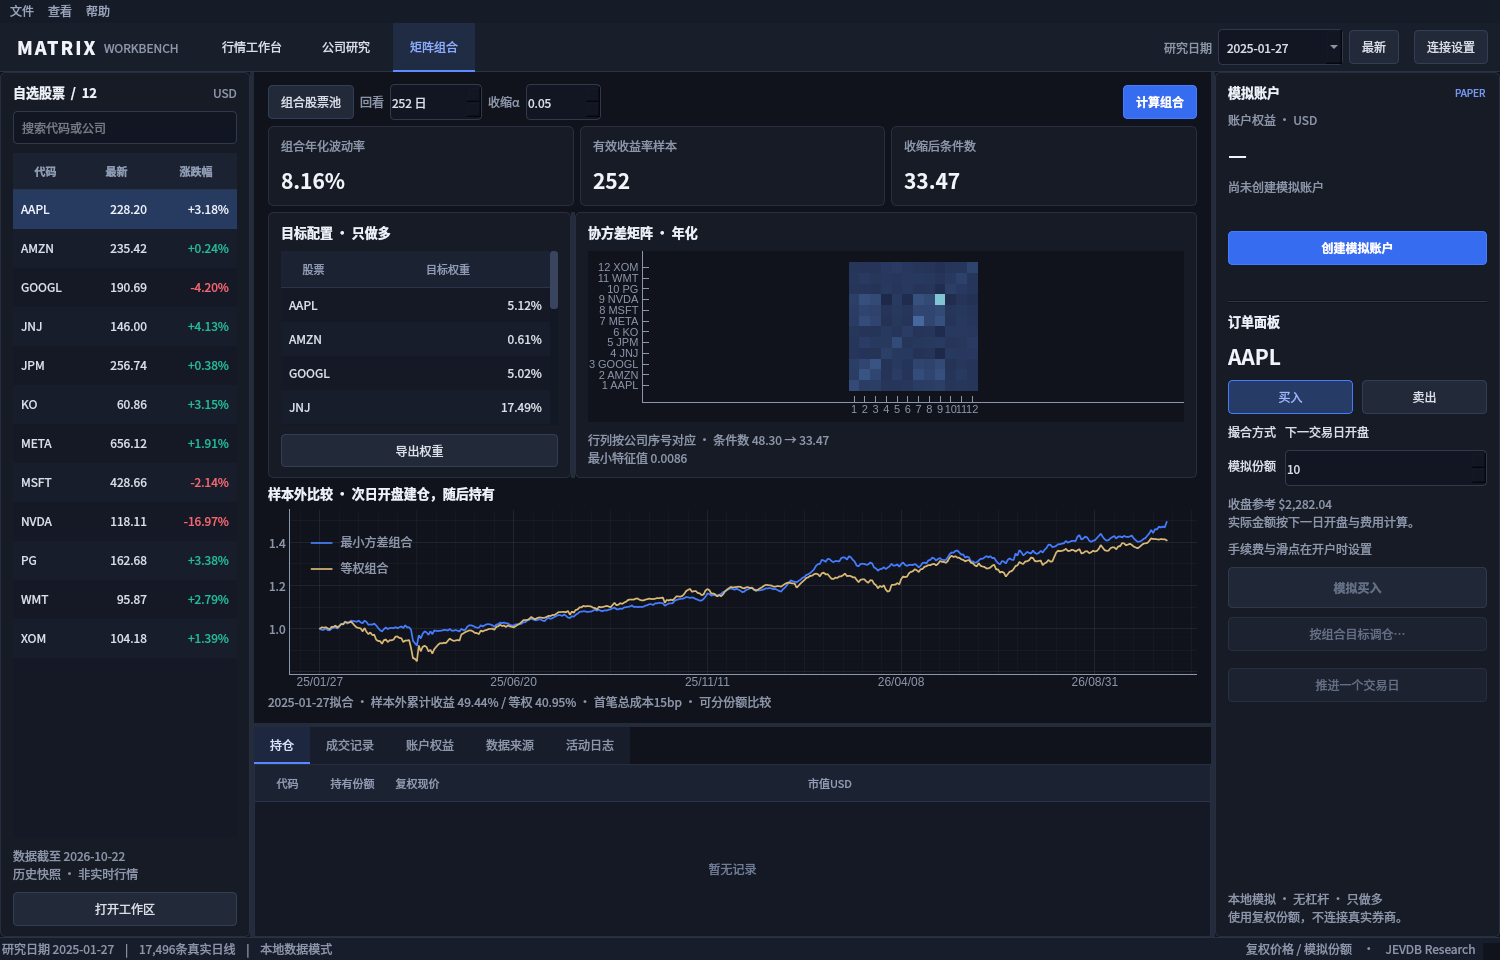
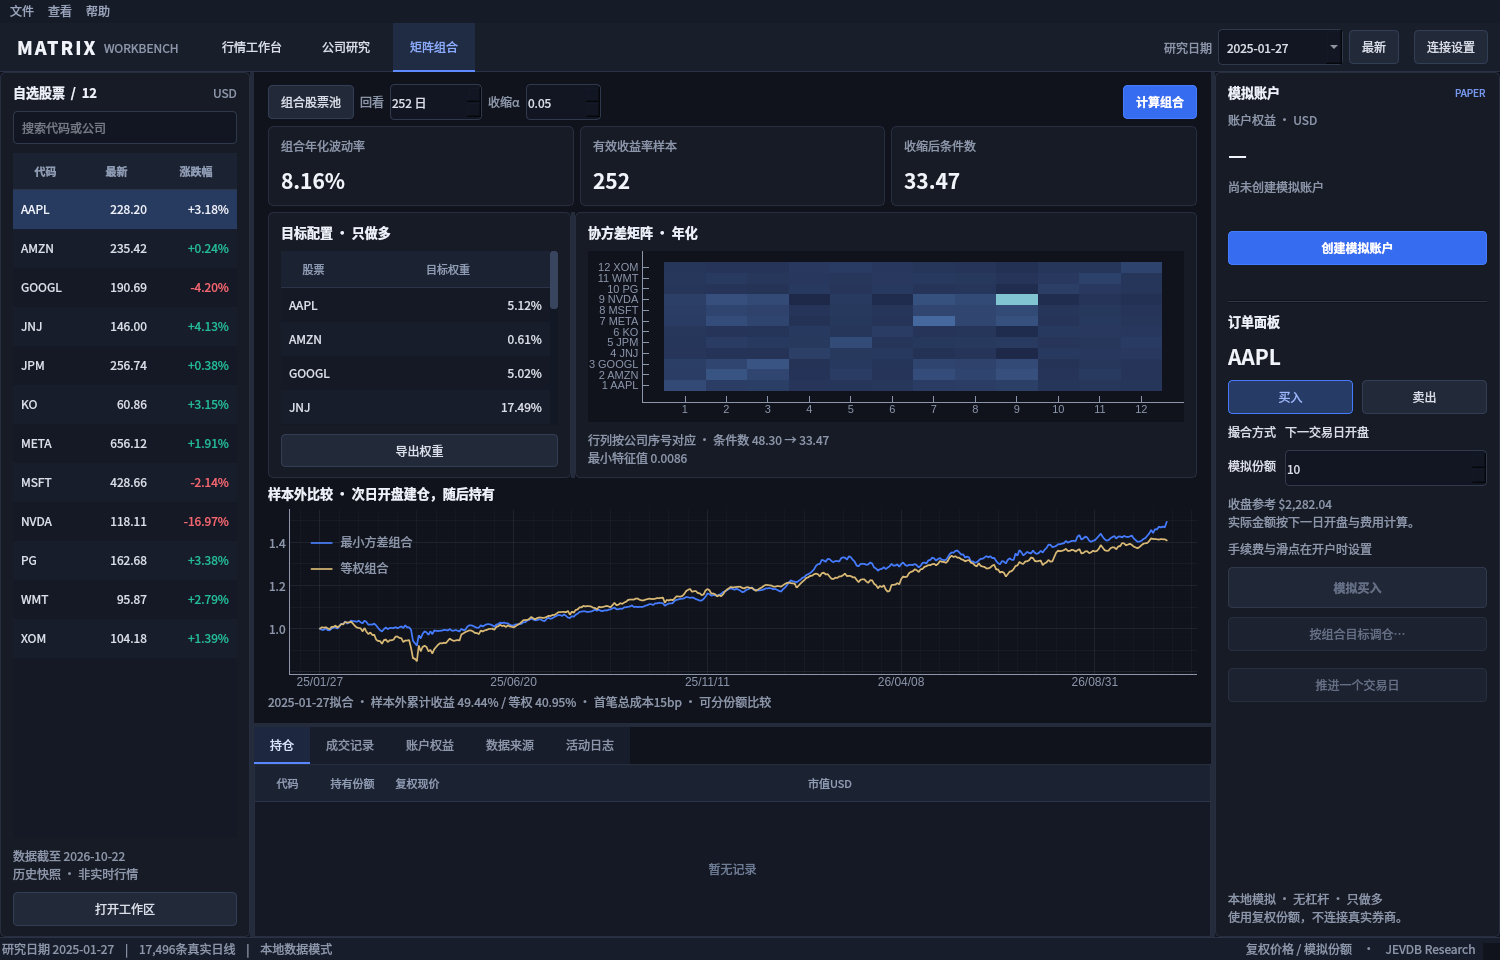
fix: keep workspace connection preferences separate and use heatmap space

Changed region(s): [[0.6133, 0.25, 0.7973, 0.4062], [0.4293, 0.25, 0.5827, 0.4062], [0.5827, 0.4062, 0.644, 0.4375]]

diff --git a/matrixlab/desktop/workspace.py b/matrixlab/desktop/workspace.py
@@ -1,4 +1,4 @@
-from dotenv import load_dotenv
+from dotenv import dotenv_values, load_dotenv
 import pandas as pd
 from PySide6 import QtCore
 
@@ -18,11 +18,14 @@ class Workspace(QtCore.QObject):
 
     def __init__(self, settings=None):
         super().__init__()
-        self.settings = settings or Settings.load()
-        self.settings.data_dir.mkdir(parents=True, exist_ok=True)
-        load_dotenv(self.settings.data_dir / ".desktop.env", override=False)
-        loaded = Settings.load()
-        self.settings = Settings(self.settings.data_dir, loaded.backend, loaded.endpoint, loaded.model, loaded.service_url, loaded.service_token)
+        base = settings or Settings.load()
+        base.data_dir.mkdir(parents=True, exist_ok=True)
+        config_path = base.data_dir / ".desktop.env"
+        local = dotenv_values(config_path)
+        load_dotenv(config_path, override=False)
+        self.settings = Settings(base.data_dir, local.get("MATRIX_BACKEND", base.backend),
+                                 local.get("MATRIX_API_ENDPOINT", base.endpoint), local.get("MATRIX_API_MODEL", base.model),
+                                 local.get("MATRIX_JEVDB_SERVICE_URL", base.service_url), local.get("MATRIX_JEVDB_SERVICE_TOKEN", base.service_token))
         self.prices = pd.DataFrame()
         self.documents = pd.DataFrame(columns=DOC_COLUMNS)
         self.symbol = ""

diff --git a/tests/test_desktop.py b/tests/test_desktop.py
@@ -73,3 +73,18 @@ def test_native_empty_workspace_uses_real_data_actions(tmp_path, monkeypatch, qt
     assert window.empty.isVisible()
     assert not window.chart.isVisible()
     assert window.watch.frame_model.rowCount() == 0
+
+
+def test_workspace_service_configuration_is_not_taken_from_another_window(tmp_path, monkeypatch, qapp):
+    from matrixlab.desktop.workspace import Workspace
+
+    monkeypatch.setenv("MATRIX_JEVDB_SERVICE_URL", "https://process-default.example")
+    for name in ["first", "second"]:
+        directory = tmp_path / name
+        directory.mkdir()
+        (directory / ".desktop.env").write_text(f"MATRIX_JEVDB_SERVICE_URL=https://{name}.example\nMATRIX_JEVDB_SERVICE_TOKEN={name}-token\n")
+    first = Workspace(Settings(tmp_path / "first", "jev", "", ""))
+    second = Workspace(Settings(tmp_path / "second", "jev", "", ""))
+    assert first.settings.service_url == "https://first.example"
+    assert second.settings.service_url == "https://second.example"
+    assert second.settings.service_token == "second-token"

diff --git a/matrixlab/desktop/pages.py b/matrixlab/desktop/pages.py
@@ -139,7 +139,7 @@ class PortfolioPage(QtWidgets.QWidget):
         self.heat = pg.PlotWidget()
         self.heat.setMenuEnabled(False)
         self.heat.hideButtons()
-        self.heat.setAspectLocked()
+        self.heat.setAspectLocked(False)
         self.heat.setMouseEnabled(False, False)
         heat_box.addWidget(self.heat)
         self.diagnostics = label("Gram矩阵 / 半正定性 / 协方差收缩", "muted")
